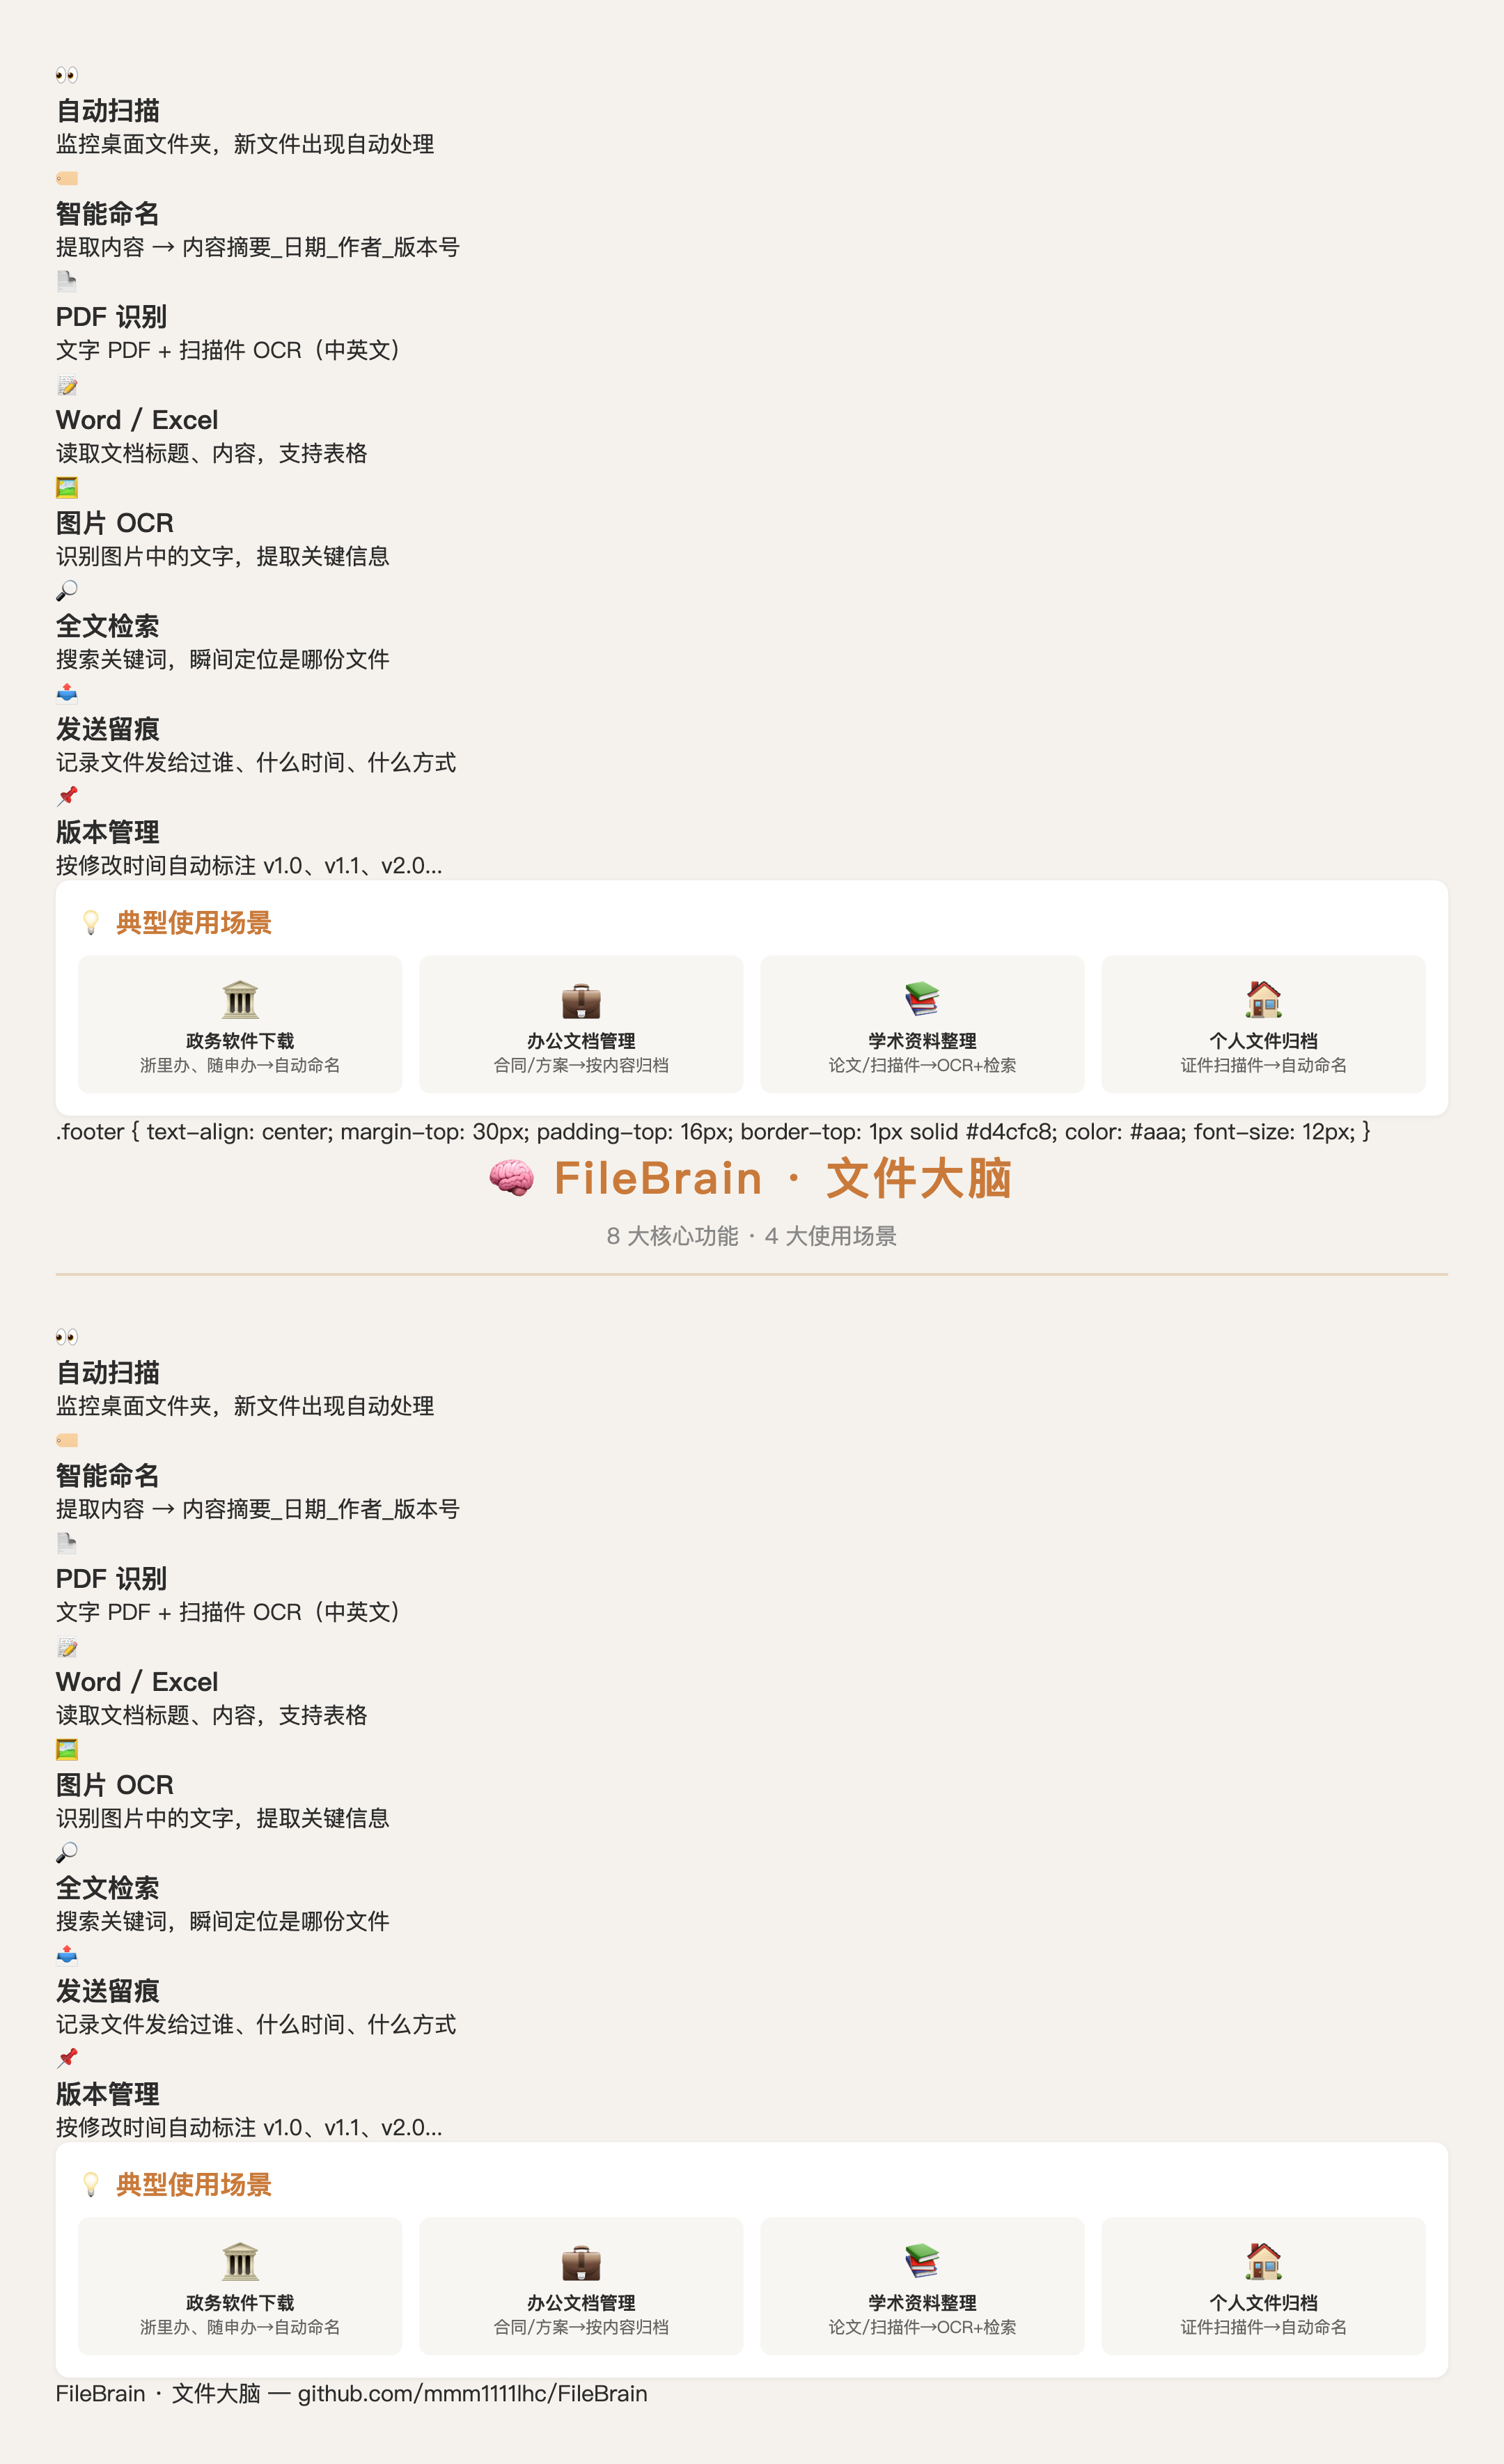
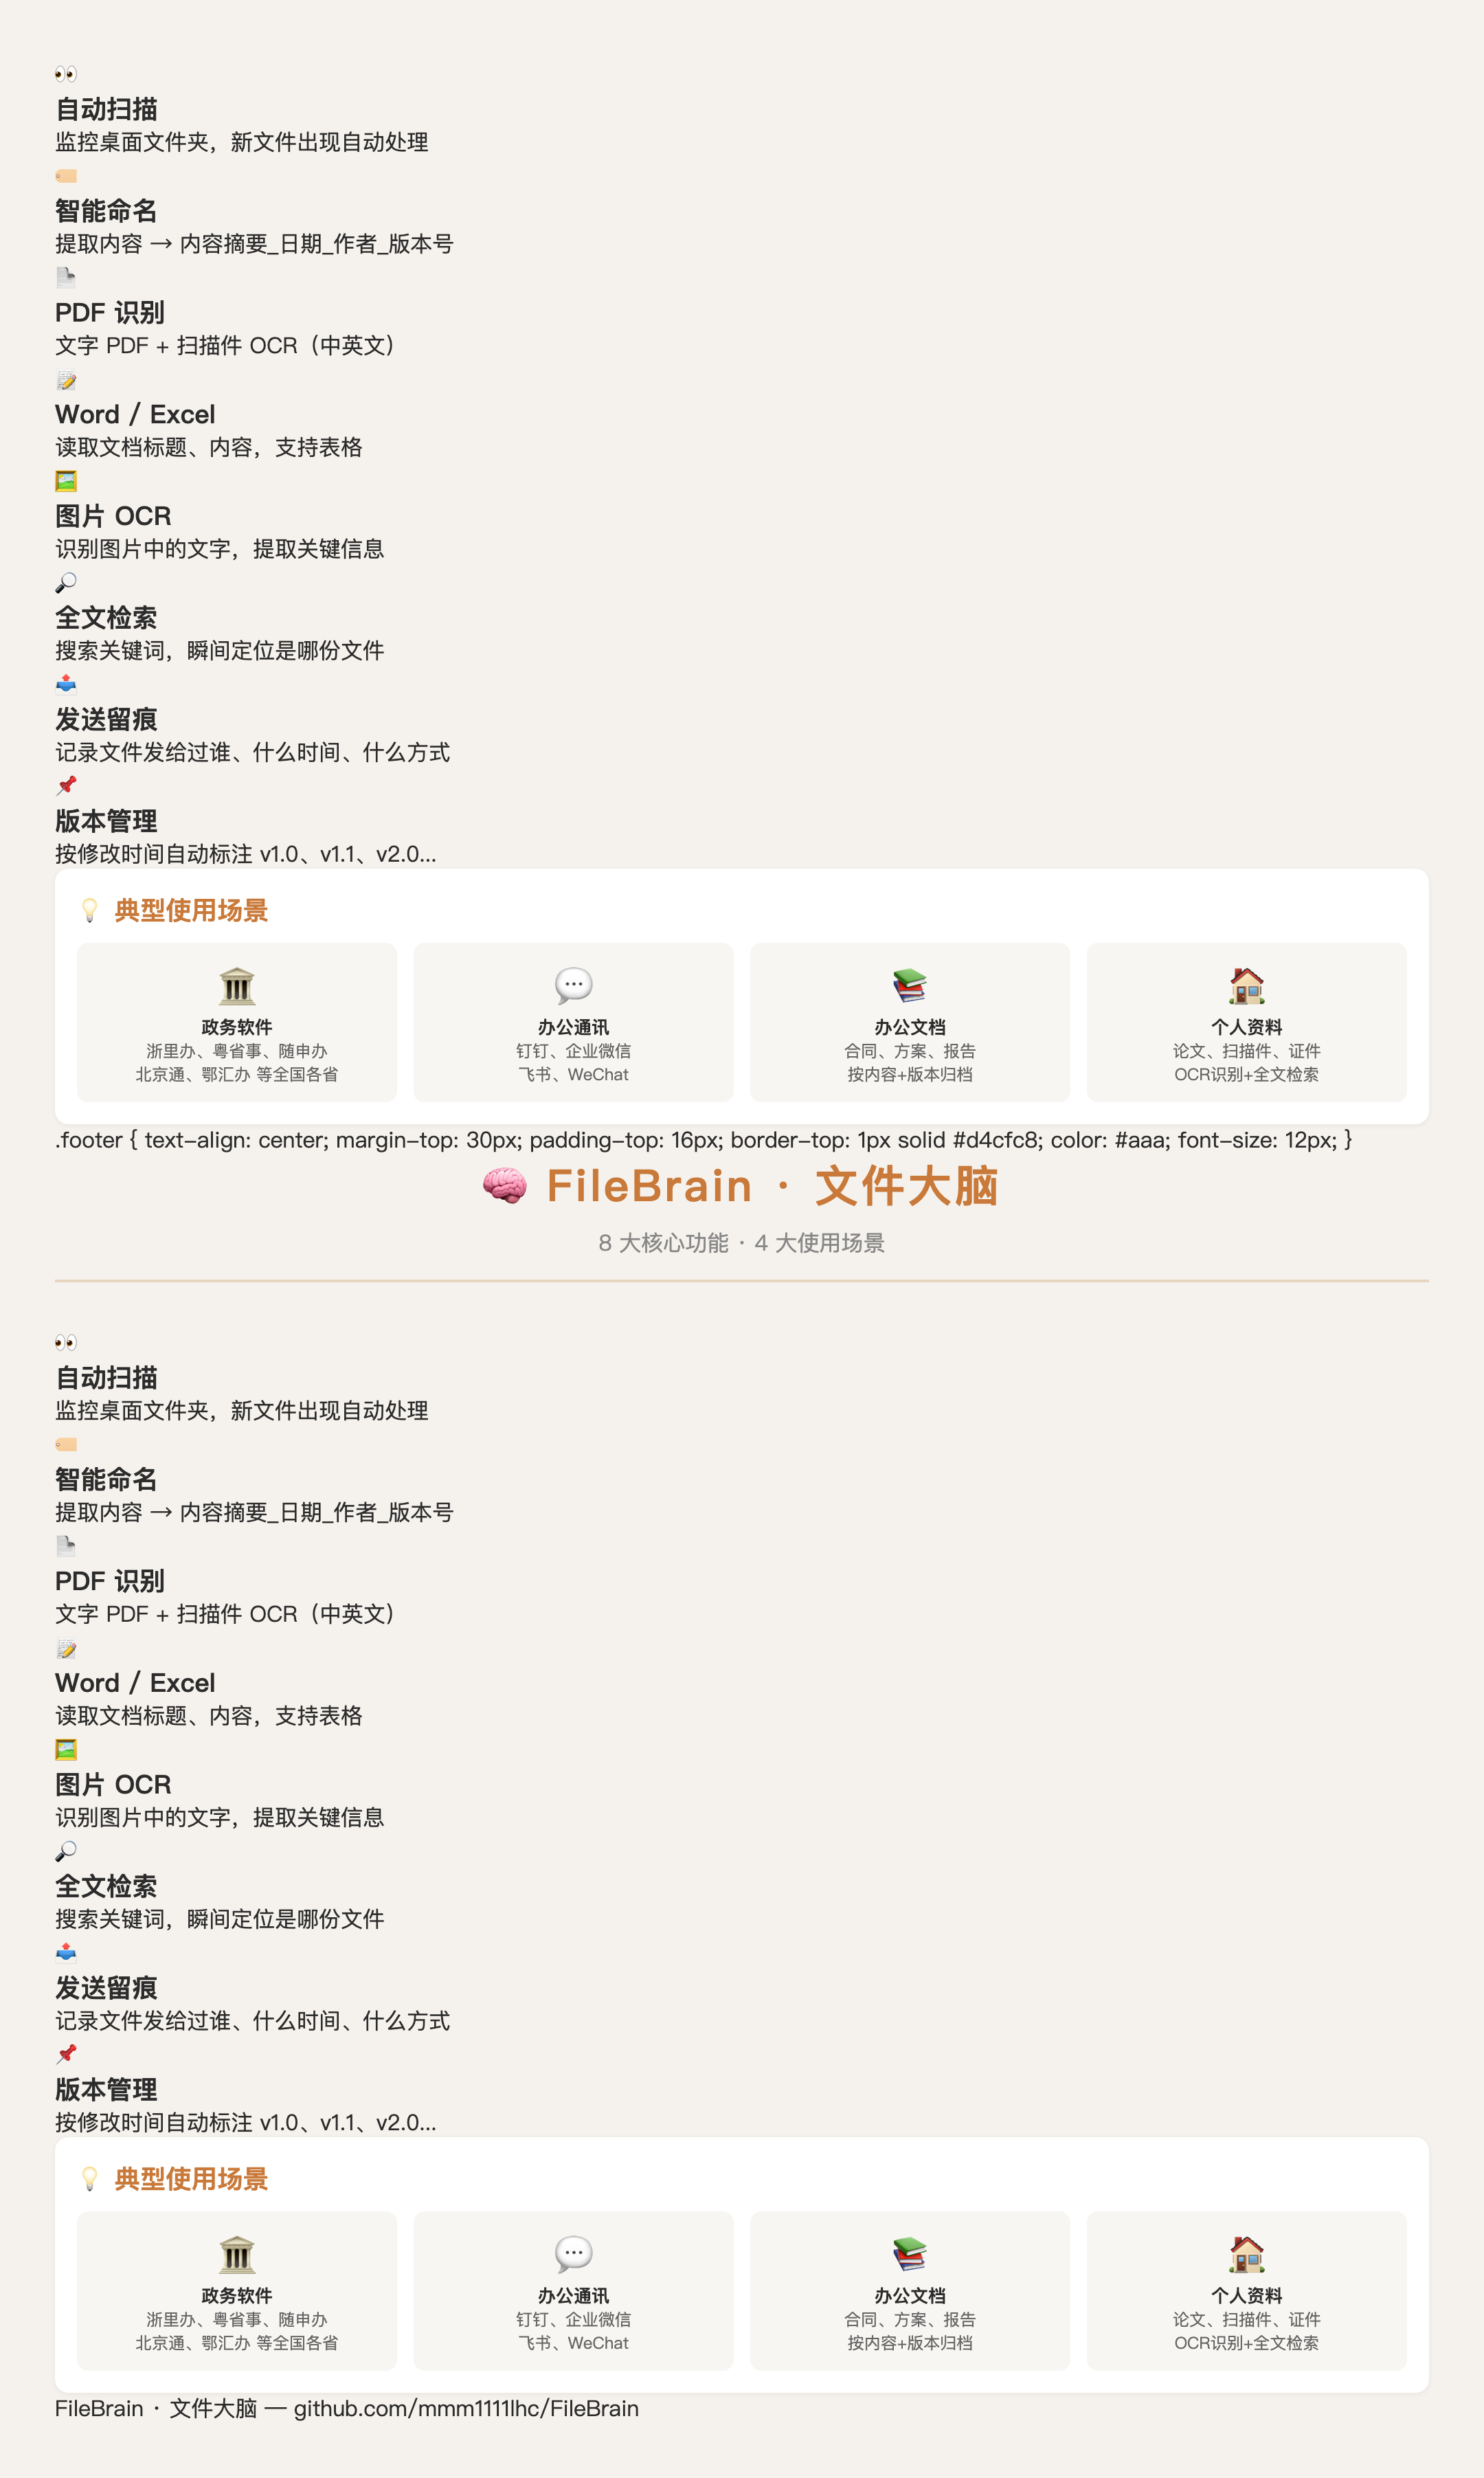
更新使用场景：全国政务App + 钉钉/企微/飞书

diff --git a/generate_images.py b/generate_images.py
@@ -242,23 +242,23 @@ def make_features_image():
         <div style="display:flex;gap:12px;">
             <div style="flex:1;background:#f8f6f2;border-radius:8px;padding:12px;text-align:center;">
                 <div style="font-size:28px;">🏛️</div>
-                <div style="font-size:13px;font-weight:bold;">政务软件下载</div>
-                <div style="font-size:12px;color:#666;">浙里办、随申办→自动命名</div>
+                <div style="font-size:13px;font-weight:bold;">政务软件</div>
+                <div style="font-size:12px;color:#666;">浙里办、粤省事、随申办<br>北京通、鄂汇办 等全国各省</div>
             </div>
             <div style="flex:1;background:#f8f6f2;border-radius:8px;padding:12px;text-align:center;">
-                <div style="font-size:28px;">💼</div>
-                <div style="font-size:13px;font-weight:bold;">办公文档管理</div>
-                <div style="font-size:12px;color:#666;">合同/方案→按内容归档</div>
+                <div style="font-size:28px;">💬</div>
+                <div style="font-size:13px;font-weight:bold;">办公通讯</div>
+                <div style="font-size:12px;color:#666;">钉钉、企业微信<br>飞书、WeChat</div>
             </div>
             <div style="flex:1;background:#f8f6f2;border-radius:8px;padding:12px;text-align:center;">
                 <div style="font-size:28px;">📚</div>
-                <div style="font-size:13px;font-weight:bold;">学术资料整理</div>
-                <div style="font-size:12px;color:#666;">论文/扫描件→OCR+检索</div>
+                <div style="font-size:13px;font-weight:bold;">办公文档</div>
+                <div style="font-size:12px;color:#666;">合同、方案、报告<br>按内容+版本归档</div>
             </div>
             <div style="flex:1;background:#f8f6f2;border-radius:8px;padding:12px;text-align:center;">
                 <div style="font-size:28px;">🏠</div>
-                <div style="font-size:13px;font-weight:bold;">个人文件归档</div>
-                <div style="font-size:12px;color:#666;">证件扫描件→自动命名</div>
+                <div style="font-size:13px;font-weight:bold;">个人资料</div>
+                <div style="font-size:12px;color:#666;">论文、扫描件、证件<br>OCR识别+全文检索</div>
             </div>
         </div>
     </div>"""

diff --git a/README.md b/README.md
@@ -21,12 +21,13 @@
 
 | 场景 | 效果 |
 |------|------|
-| 🏛️ **政务软件下载**（浙里办、随申办等） | 申请表/回执单 → 自动识别标题并重命名 |
+| 🏛️ **政务软件下载** | 浙里办、粤省事、随申办、北京通等各省政务 App → 申请表/回执单自动命名 |
+| 💬 **办公通讯软件** | 钉钉、企业微信、飞书、WeChat → 下载的文档/表格自动整理 |
 | 💼 **办公文档管理** | 合同/方案/报告 → 按内容摘要+版本号自动归档 |
 | 📚 **学术资料整理** | 论文/扫描件 → OCR 识别 + 全文检索 |
 | 🏠 **个人文件归档** | 身份证/证件扫描件 → 自动识别并命名 |
 
-> **比如从浙里办下载审批回执：** 原始文件名是 `20260622_12345678.pdf`，FileBrain 自动识别内容后重命名为 `建设工程规划许可证_20260622_v1.0.pdf`，再也不用一个一个手动改文件名。
+> **举个实际例子：** 从浙里办下载审批回执，原始文件名是 `20260622_12345678.pdf`，FileBrain 自动识别内容后重命名为 `建设工程规划许可证_20260622_张三_v1.0.pdf`。粤省事、随申办、钉钉、企微、飞书……任何地方下载的文件，放桌面就自动整理，再也不用一个一个手动改文件名。
 
 ## 🖥️ 界面
 